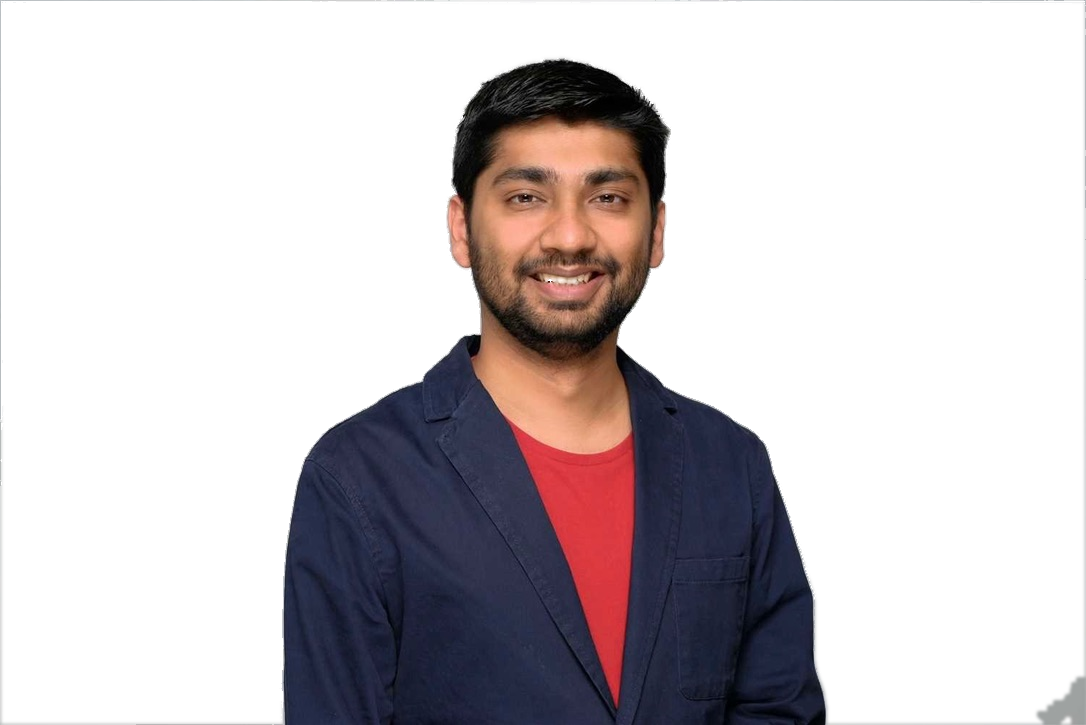
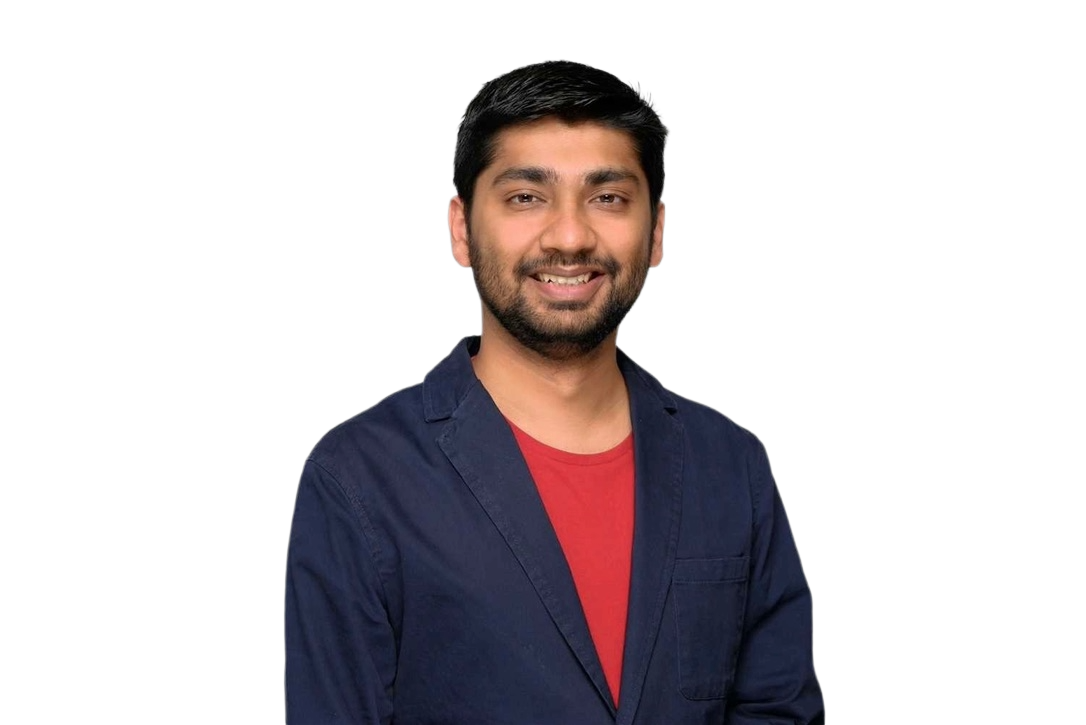
Lets See

diff --git a/index.html b/index.html
@@ -35,7 +35,7 @@ nav{position:fixed;top:0;left:0;right:0;z-index:100;background:rgba(13,13,13,.92
 nav.hidden{transform:translateY(-100%)}
 .nav-inner{max-width:900px;margin:0 auto;padding:16px 24px;display:flex;align-items:center;justify-content:space-between}
 .nav-name{font-weight:700;font-size:16px;color:var(--text);letter-spacing:.02em;display:flex;align-items:center;gap:10px}
-.nav-avatar{width:30px;height:30px;border-radius:50%;object-fit:cover;object-position:center 10%;flex-shrink:0;box-shadow:0 0 0 1.5px var(--teal)}
[1 lines of base64/hex data omitted]
 .nav-links{display:flex;gap:32px;align-items:center}
 .nav-links a{font-size:14px;color:var(--muted);transition:color .2s}
 .nav-links a:hover{color:var(--text)}
@@ -148,7 +148,7 @@ footer{border-top:1px solid var(--line);padding:32px 0;text-align:center;font-si
 
 <nav id="nav">
   <div class="nav-inner">
-    <a href="#hero" class="nav-name"><img src="parth-nobg.png" alt="Parth Bhatt" class="nav-avatar">Parth Bhatt</a>
+    <a href="#hero" class="nav-name" oncontextmenu="return false" ondragstart="return false"><div class="nav-avatar" role="img" aria-label="Parth Bhatt"></div>Parth Bhatt</a>
     <div class="nav-links">
       <a href="#work">Work</a>
       <a href="cv.html">CV</a>